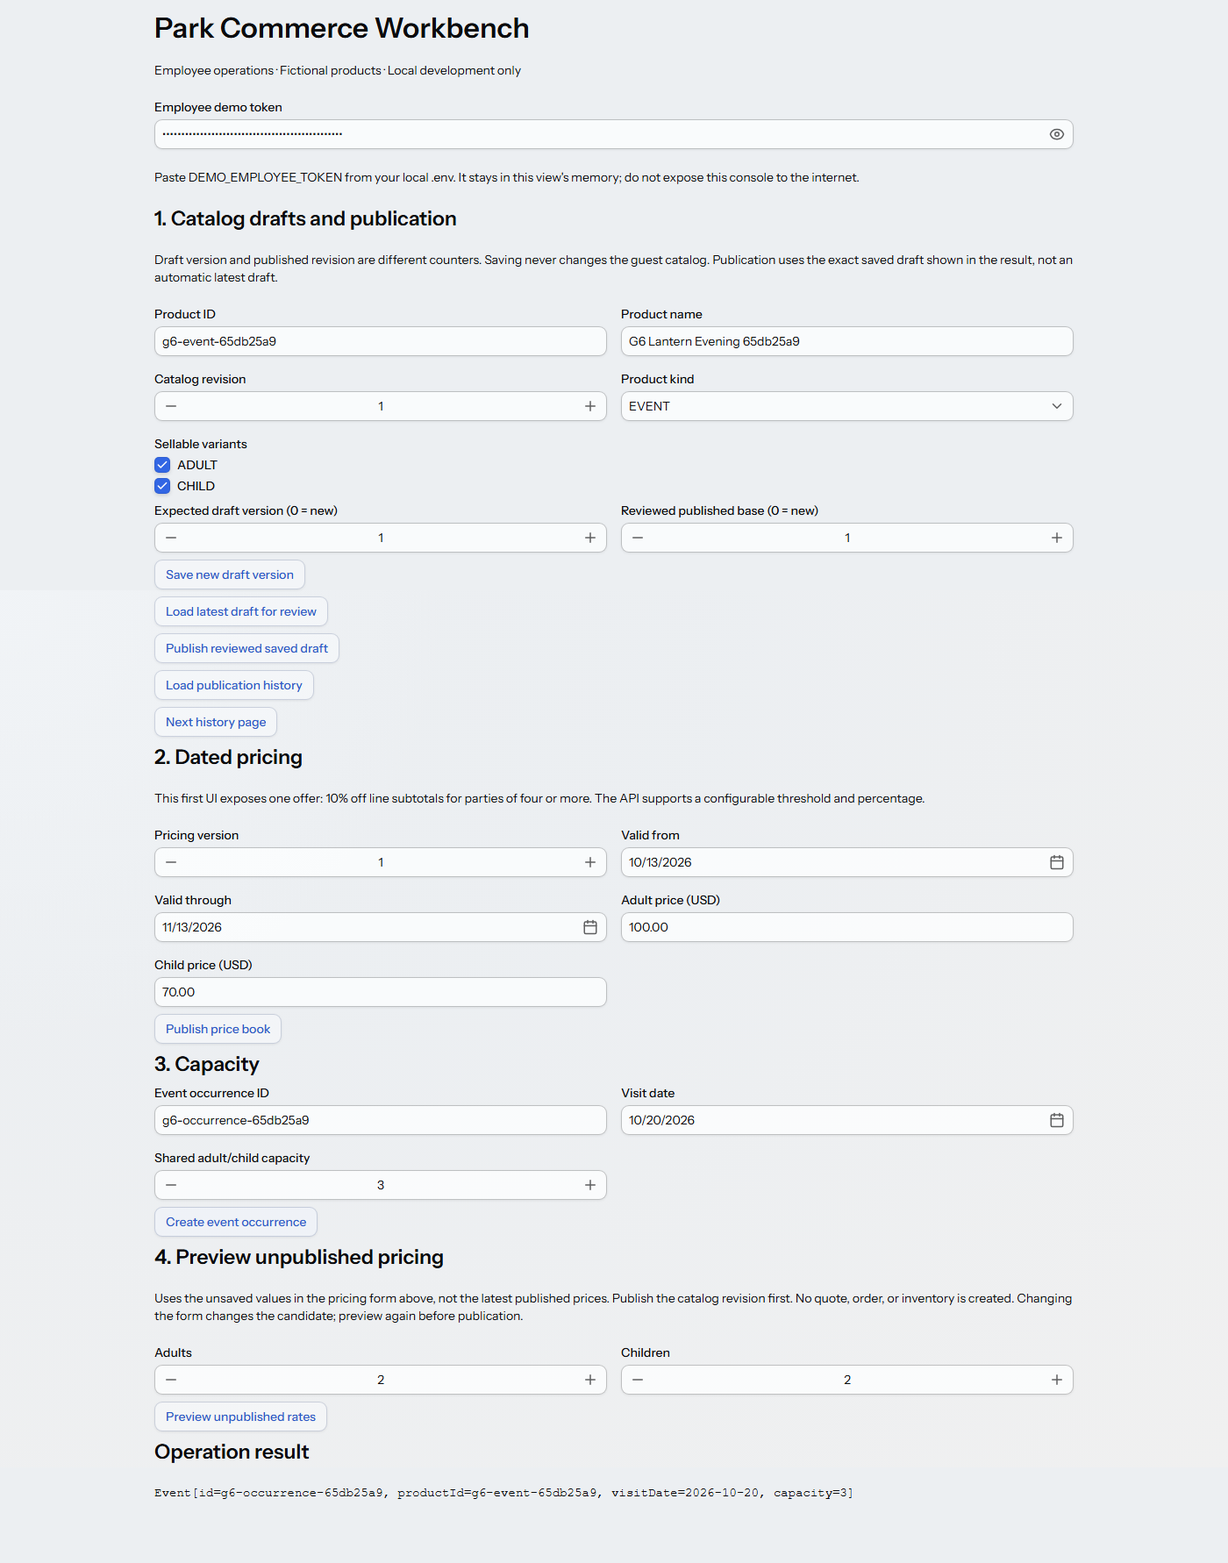
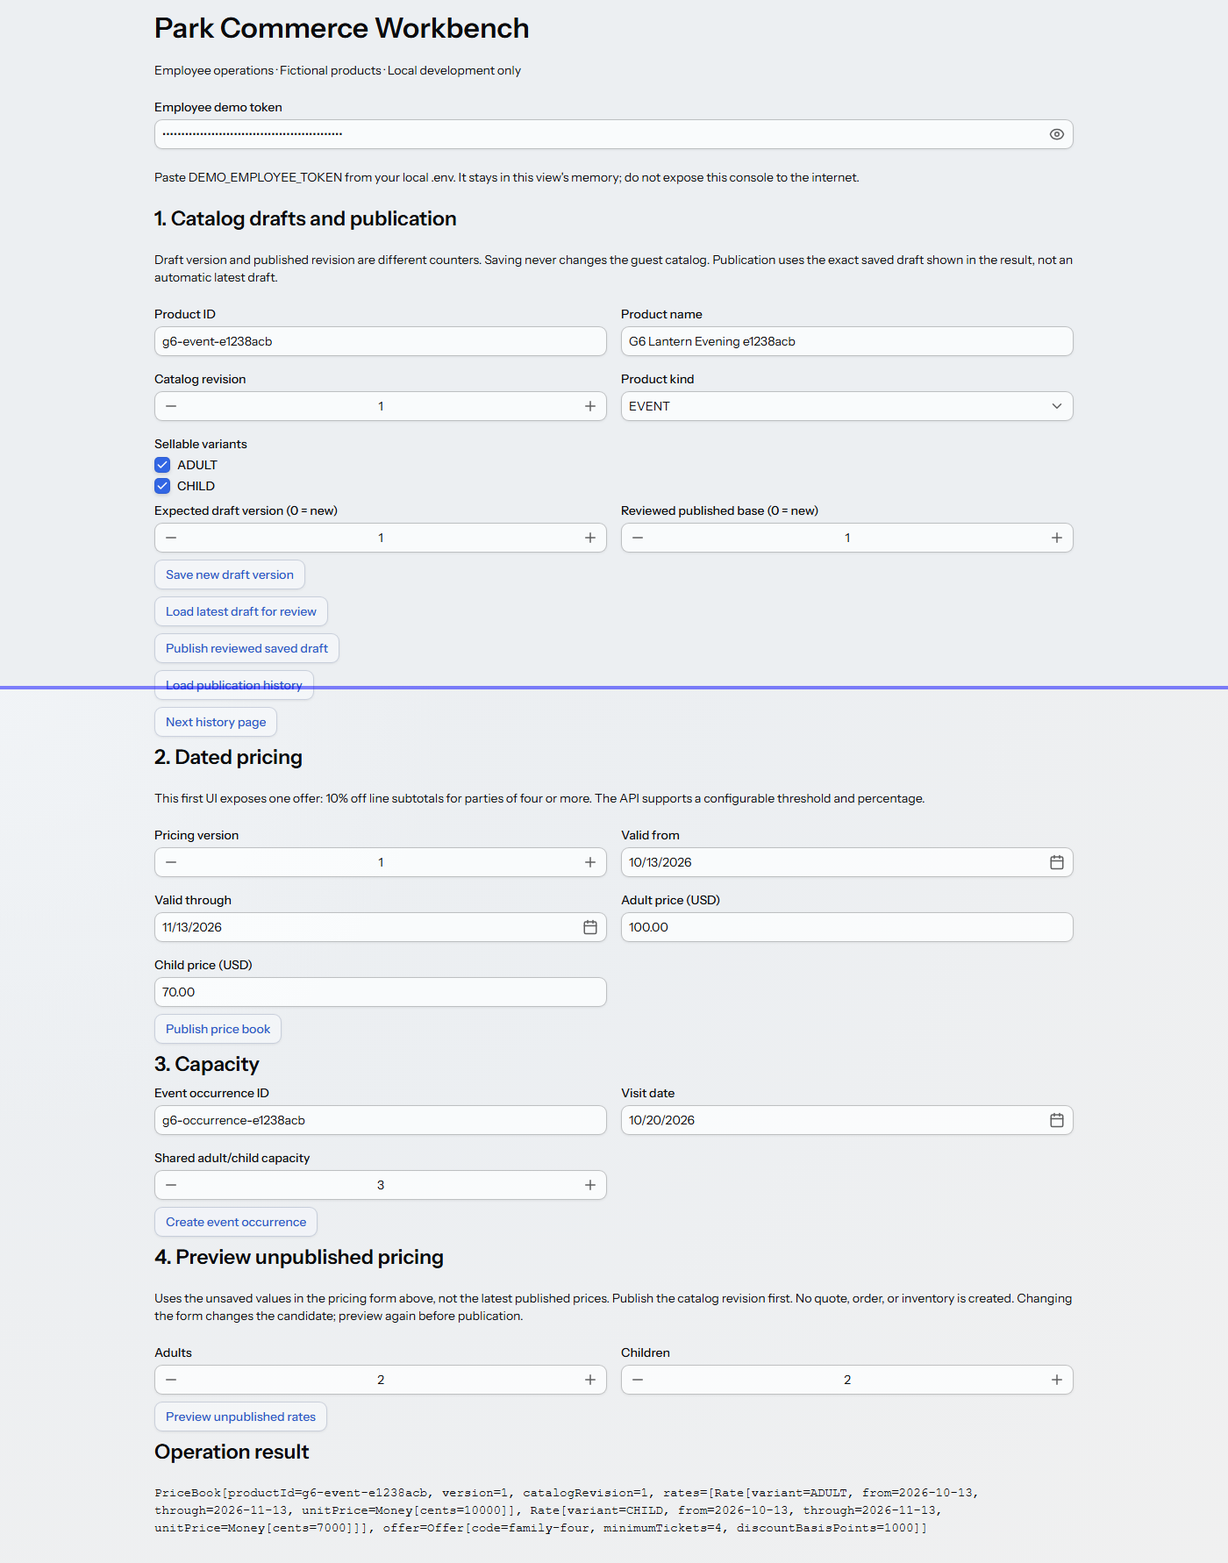
docs: correct G-0006 post-publication browser proof

diff --git a/goals/G-0006/evidence/f5e1cc5/browser-walkthrough.md b/goals/G-0006/evidence/f5e1cc5/browser-walkthrough.md
@@ -2,9 +2,9 @@
 
 Source S `f5e1cc5e576c45a785199374031e5853a4dc7606`, clean detached verification worktree `.tmp/g0006-live`. The Vaadin console used `http://127.0.0.1:8480/`; Angular used `http://127.0.0.1:4300/`; APIs used loopback ports 8381–8383. Local Playwright 1.64.0 drove installed headless Chromium. This was an actual browser session against the actual Compose services, not a DOM mock or screenshot of source. The exact executed script is [checks/browser-flow.cjs](checks/browser-flow.cjs); [raw steps](checks/browser-flow.txt) retain the command, source, timestamps, assertions and synthetic IDs. The ignored `.env` supplied randomly generated local demo credentials in process memory; its values are absent from the reports.
 
-1. Open the employee console, enter the local employee token, set product ID `g6-event-65db25a9` and fictional name, save draft version 1, then click **Publish reviewed saved draft**. A public catalog API read returned revision 1. Through the same UI, publish price book version 1 at $100 adult / $70 child, and create event `g6-occurrence-65db25a9` for `2026-10-20` with capacity 3. [Employee browser screenshot](checks/screenshots/admin.png).
-2. Open the Angular guest client in a second page, enter the guest token and authenticate against the booking service. Load published products, select that product and date, and click **Get itemized quote**. The GraphQL response returned quote `37fbc3dd-9c11-4903-a176-cfecd4c8c5e0`, pricing version 1, total 10000 cents. The UI displayed $100. [Original quote screenshot](checks/screenshots/quote.png).
-3. Return to the employee browser, change pricing version to 2 and adult rate to $125, then publish through Vaadin. Reread the original quote through the pricing API: version 1 and 10000 cents. A new quote for the other demo guest returned 12500 cents. The original guest UI still displayed $100 before holding inventory.
-4. In Angular, enter matching occurrence ID, click **Hold event capacity**, then **Confirm saved simulated purchase**. The receipt and booking API returned order `38bc4892-f810-42b0-90fd-5ae9413b858e`, one ticket, 10000 cents. Click **Retry same checkout**; a second order read was deeply equal to the first. [Confirmed order screenshot](checks/screenshots/order.png). The booking availability read after retry and restart reported capacity 3, confirmed 1, held 0, available 2; see [restart evidence](restart-and-limitations.md).
+1. Open the employee console, enter the local employee token, set product ID `g6-event-e1238acb` and fictional name, save draft version 1, then click **Publish reviewed saved draft**. A public catalog API read returned revision 1. Through the same UI, publish price book version 1 at $100 adult / $70 child, and create event `g6-occurrence-e1238acb` for `2026-10-20` with capacity 3. [Employee browser screenshot](checks/screenshots/admin.png).
+2. Open the Angular guest client in a second page, enter the guest token and authenticate against the booking service. Load published products, select that product and date, and click **Get itemized quote**. The GraphQL response returned quote `98cf4bd3-8e67-4452-aac3-65f0946a74b0`, pricing version 1, total 10000 cents. The UI displayed $100. [Original quote screenshot](checks/screenshots/quote.png).
+3. Return to the employee browser, change pricing version to 2 and adult rate to $125, then publish through Vaadin. Reread the original quote through the pricing API: version 1 and 10000 cents. A new quote for the other demo guest returned 12500 cents. **After publication**, read the original guest page's visible total element and assert it is `$100.00 USD`; then capture the [post-publication screenshot](checks/screenshots/reprice.png). The screenshot has the same bytes as the earlier quote screenshot because that guest DOM remained unchanged. The ordered assertion and API responses in the [browser script](checks/browser-flow.cjs) and [run output](checks/browser-flow.txt) establish when the observation occurred.
+4. In Angular, enter matching occurrence ID, click **Hold event capacity**, then **Confirm saved simulated purchase**. The receipt and booking API returned order `5a2d529d-3af9-4121-a508-c1a458e30b26`, one ticket, 10000 cents. Click **Retry same checkout**; a second order read was deeply equal to the first. [Confirmed order screenshot](checks/screenshots/order.png). The booking availability read after retry and restart reported capacity 3, confirmed 1, held 0, available 2; see [restart evidence](restart-and-limitations.md).
 
-The screenshots show synthetic IDs and masked password fields. They were inspected before publication. The local browser runner lives in ignored `.tmp/g0006-browser`; its committed script copy documents the procedure but assumes that same scratch layout and an installed Playwright/Chromium. Browser startup, framework packaging and Angular compilation are separately evidenced in [Compose build](checks/compose-build.txt), [Vaadin build](checks/vaadin-build.txt) and [Angular build](checks/angular-build.txt); a successful build alone is not treated as a browser pass.
+The first review found that the earlier script read guest text before the price change, so its claim about the post-publication UI was unsupported. The earlier [script](checks/browser-flow-round1.cjs), [run](checks/browser-flow-round1.txt) and round-one screenshots remain available; the repeated run above added a post-publication assertion without changing source S. The screenshots show synthetic IDs and masked password fields. They were inspected before publication. The local browser runner lives in ignored `.tmp/g0006-browser`; its committed script copy documents the procedure but assumes that same scratch layout and an installed Playwright/Chromium. Browser startup, framework packaging and Angular compilation are separately evidenced in [Compose build](checks/compose-build.txt), [Vaadin build](checks/vaadin-build.txt) and [Angular build](checks/angular-build.txt); a successful build alone is not treated as a browser pass.

diff --git a/goals/G-0006/evidence/f5e1cc5/reviews/round1-adversarial.md b/goals/G-0006/evidence/f5e1cc5/reviews/round1-adversarial.md
@@ -1,0 +1,29 @@
+# G-0006 independent adversarial review, round 1
+
+Native child thread: 01a134e0-deb2-7c00-80fa-a18500302246; parent: 01a134e0-527e-7812-8936-da1cc365ff3c. Local raw rollout SHA-256: 12e4ec55a58e99ed70cc02f19d2e12625d1b435c77f94ad32c1e793369859a14. The role/path were authenticated from child session metadata; the child could not see its own thread ID. Raw rollout stays local because it contains host paths. The following is the child final response with local file links rewritten as repository-relative links and native trailing whitespace normalized for public retention.
+
+## Independent adversarial review — round 1
+
+**Role:** `adversarial-reviewer`
+**Task path:** `/root/g0006_adversarial_round1`
+**Native child thread ID:** Not exposed to this reviewer.
+
+**Fixed identities:** source S `f5e1cc5e576c45a785199374031e5853a4dc7606`; base `f95ca02f1f54b4010c0e9b4c00cba6fa685d689e`; accepted plan P `db494ebe4b5761cab9a1ecd67831dbad059f69b6`; evidence checkpoint E1 `4900d4a2c36189746f95567a71e48359c0b2bb04`. Git ancestry confirms P precedes S and E1 follows S. The retained accepted-plan copy matches the recorded SHA-256. The working tree was clean during this read-only review.
+
+**Inspected scope:** Accepted AC01–AC04, governing baseline and review guide; the complete base-to-S diff; E1 reports, raw check logs, browser script and screenshots; Vaadin and Angular request paths; booking retry dispatch; Compose/build results and restart record. S changes setup guidance and the storefront footer. I found no new duplicate pricing, booking, or authorization implementation, misplaced business rule, dependency cycle, or public contract change in that diff. The established services remain the canonical owners of those rules.
+
+### Finding 1 — browser evidence overstates its post-publication UI check
+
+In [`browser-flow.cjs`](../../../../../goals/G-0006/evidence/f5e1cc5/checks/browser-flow.cjs), `guestText` is captured **before** Vaadin publishes price version 2. The later `uiKeepsOldPrice` value tests that cached text. Consequently, the statement in [`browser-walkthrough.md`](../../../../../goals/G-0006/evidence/f5e1cc5/browser-walkthrough.md) that the guest UI “still displayed $100” after publication is not established by that assertion. The quote screenshot was also taken before publication.
+
+**Impact and disposition:** Correct that statement or obtain a post-publication UI observation. This is an evidence-integrity finding, not presently a demonstrated AC03 failure: the script separately reads the old quote after publication, checks 10000 cents against a new 12500-cent quote, and checks the resulting order total.
+
+### Finding 2 — current checkpoint is incomplete for readiness
+
+E1 contains the required A01–A03 reports and raw checks, but no filled `manifest.json`, independent review reports, intended-use validation, readiness decision, or recovery handoff. The accepted [goal record](../../../../../goals/G-0006/README.md) and [artifact contract](../../../../../docs/roadmap/ARTIFACT-CONTRACT.md) require those before a ready claim.
+
+**Impact and disposition:** Readiness remains blocked pending actual completion and review of those records. E1 accurately calls itself a checkpoint; its absence of later records is not evidence that S failed the executed product checks.
+
+**Evidence limits:** The Vaadin build log says existing `node_modules` caused `npm ci` to be skipped, so its successful `mvn clean install` does not independently demonstrate a fresh npm dependency install. The browser script and logs are retained copies of a local scratch run; their execution and clean-worktree claim were not independently reproduced here. I performed no mutable product checks, credential inspection, remote retrieval, intended-use validation, release approval, or deployment assessment. The local remote-tracking ref contains E1, but that observation alone does not prove a fresh off-device retrieval or whole-goal recovery.
+
+The retained logs report six healthy Compose services, 43 passing HTTP assertions, a browser order at 10000 cents after price version 2, and order retrieval after a volume-preserving restart. Those are reported observations for S, with the limits above; they do not confer validation or release approval.

diff --git a/goals/G-0006/evidence/f5e1cc5/reviews/round1-contract.md b/goals/G-0006/evidence/f5e1cc5/reviews/round1-contract.md
@@ -1,0 +1,21 @@
+# G-0006 independent contract review, round 1
+
+Native child thread: 01a134e0-ad3e-73a0-8004-086e53139028; parent: 01a134e0-527e-7812-8936-da1cc365ff3c. Local raw rollout SHA-256: b38a33028c11b881d518f0777cb6664e251f2a3d8c31002249df42e97618b25b. The role/path were authenticated from child session metadata; the child could not see its own thread ID. Raw rollout stays local because it contains host paths. The following is the child final response with native trailing whitespace normalized.
+
+## Independent first-round contract review
+
+**Role/task path:** `contract-reviewer`, `/root/g0006_contract_round1`. Native child thread ID was not visible to me.
+
+**Fixed identities:** Source S `f5e1cc5e576c45a785199374031e5853a4dc7606`; base `f95ca02f1f54b4010c0e9b4c00cba6fa685d689e`; accepted plan P `db494ebe4b5761cab9a1ecd67831dbad059f69b6`; evidence checkpoint E1 `4900d4a2c36189746f95567a71e48359c0b2bb04`. E1 adds reports and raw evidence without changing S product files.
+
+**Inspected scope:** The four accepted criteria in `goals/G-0006/README.md`; governing baseline and the contract section of `.agents/skills/work-goal/references/review-guide.md`; S versus base diff; retained Compose, HTTP, browser, build, restart logs and screenshots; browser runner assertions; relevant `scripts/demo-http.mjs` assertions and artifact contract. I did not inspect ignored `.env` credentials or run mutable checks.
+
+**Observed coverage:** The retained logs report six healthy Compose services, 43 passed live HTTP assertions with exit 0, a Vaadin publication and Angular quote/order browser run with exit 0, and a volume-preserving restart followed by retrieval of the same order. The HTTP script asserts price preservation, ownership, retry identity, and competing holds. The browser and restart records connect event `g6-occurrence-65db25a9`, quote `37fbc3dd-9c11-4903-a176-cfecd4c8c5e0`, and order `38bc4892-f810-42b0-90fd-5ae9413b858e`; post-retry/restart availability is capacity 3, confirmed 1, available 2. No demonstrated product-contract failure or DRY/architectural smell appeared in the small S delta.
+
+### Findings and blockers
+
+1. **Misleading browser assertion, evidence defect:** `checks/browser-flow.cjs:46,54` captures `guestText` *before* Vaadin publishes price version 2, then reports `uiKeepsOldPrice` from that earlier text. `browser-walkthrough.md:7` says the Angular UI still displayed $100 *after* publication and before holding; this specific assertion does not establish that sequence. The server reread and final order independently support AC03’s protected total, so this is a narrower browser-evidence defect, not a demonstrated pricing failure. **Disposition:** Correct the claim or provide a post-publication UI observation with corresponding evidence.
+
+2. **Readiness evidence incomplete at E1:** `goals/G-0006/README.md:76` and `docs/roadmap/ARTIFACT-CONTRACT.md` require a filled manifest, separate independent review reports, intended-use validation, decision, and handoff. These are absent from `goals/G-0006/evidence/f5e1cc5/` at E1. This is an **outstanding gate**, expected during first-round review, but the candidate cannot be called ready on E1 alone. **Disposition:** Complete actual reviews and obtain Adam’s intended-use validation or explicit delegation, then record the manifest, decision, and handoff without inventing approval.
+
+**Uncertainty and unverified scope:** I relied on the owner’s retained execution logs; this read-only assignment did not independently rerun the local services or browser. The committed browser runner is described as a copy of a local scratch script, but E1 does not independently authenticate the scratch script’s bytes. I did not assess admission checkout, combined cart, production auth, deployment, remote recovery, or release approval.

diff --git a/goals/G-0006/evidence/f5e1cc5/restart-and-limitations.md b/goals/G-0006/evidence/f5e1cc5/restart-and-limitations.md
@@ -1,8 +1,8 @@
 # G-0006-A03 — volume-preserving recovery and limits
 
-At source S `f5e1cc5e576c45a785199374031e5853a4dc7606`, run `docker compose down` (without `-v`) in `.tmp/g0006-live`, verify all three named volumes still exist, then run `docker compose up -d --wait`. Both commands exited 0. Each service was healthy after restart. The Mongo, pricing MySQL and booking MySQL volumes retained their creation timestamp `2026-10-13T06:52:02Z` before shutdown, after shutdown and after startup. All six container IDs changed. [Raw command, volume and container record](checks/restart.txt).
+At source S `f5e1cc5e576c45a785199374031e5853a4dc7606`, run `docker compose down` (without `-v`) in `.tmp/g0006-live`, verify all three named volumes still exist, then run `docker compose up -d --wait`. Both commands exited 0. Each service was healthy after restart. The Mongo, pricing MySQL and booking MySQL volumes retained their creation timestamp `2026-10-13T06:52:02Z` before shutdown, after shutdown and after startup. All six container IDs changed. [Raw command, volume and container record](checks/restart-round2.txt). The earlier [restart run](checks/restart.txt) remains retained with its distinct browser order.
 
-After restart, an owner-authenticated GET returned browser order `38bc4892-f810-42b0-90fd-5ae9413b858e`, one ticket, 10000 cents, HTTP 200. Event `g6-occurrence-65db25a9` still reported capacity 3, confirmed 1, held 0, available 2. Retrieval and equality assertions exited 0. No volume deletion or database reset was used.
+After restart, an owner-authenticated GET returned the corrected browser run's order `5a2d529d-3af9-4121-a508-c1a458e30b26`, one ticket, 10000 cents, HTTP 200. Event `g6-occurrence-e1238acb` still reported capacity 3, confirmed 1, held 0, available 2. Retrieval and equality assertions exited 0. No volume deletion or database reset was used.
 
 No framework or data-binding code repair was needed for the accepted event path. The Vaadin production build and Angular build passed at S, and the browser forms bound to the actual APIs. The first attempted Vaadin port, 8180, belonged to an unrelated Docker mapping and was not used as G-0006 evidence. The G-0006 console ran on 8480; [START-HERE](../../../../docs/START-HERE.md) now documents isolated ports and client bindings. A later `mvn clean install` attempt on Windows failed because that running console locked its jar; [failed output](checks/vaadin-build-red.txt) is retained. After verifying and stopping only the owned console process, the same [clean build](checks/vaadin-build.txt) passed, including 280 core tests. The storefront's stale “verification pending” footer was corrected in S.
 

diff --git a/goals/G-0006/work/implementation.md b/goals/G-0006/work/implementation.md
@@ -6,4 +6,6 @@ An isolated verification worktree `.tmp/g0006-live` and Compose project `pcw-g00
 
 The final S Vaadin clean build initially failed because Windows locked the running console jar. The failed log is retained. After checking the process/port belonged to this worktree, the writer stopped only that owned process; the same S clean build then passed with 280 core tests. The console was relaunched from the rebuilt S jar on 8480 and returned HTTP 200. Its current PID is a local observation, not a durable identifier; verify its command line and port before any later stop. The Angular process remains on 4300. No vendor service, paid browser workflow, payment provider or deployment was used.
 
-Next: finish privacy/digest manifest, publish the evidence checkpoint, obtain independent native contract and adversarial reviews of fixed S and raw evidence, resolve findings within the three-round limit, ask Adam for intended-use validation or explicit delegation, then make a truthful readiness/recovery decision. G-0006 is not ready merely because the technical checks passed. Do not merge, release or remove local volumes as a side effect of this checkpoint.
+The first independent native contract and adversarial reviewers both found an evidence-ordering error: the original script's UI text came from before publication of price version 2. A second local browser run now asserts the visible $100 total **after** publication and takes an additional screenshot. Its own order survived a second volume-preserving restart. Source S did not change. The first outputs and independent findings remain retained under the evidence directory. The other first-round finding was expected incompleteness of final readiness artifacts.
+
+Next: publish the corrected evidence checkpoint, obtain second-round independent native review of fixed S and corrected raw evidence, complete actual intended-use validation or record Adam's explicit delegation, then assemble the digest manifest and make a truthful readiness/recovery decision. G-0006 is not ready merely because the technical checks passed. Do not merge, release or remove local volumes as a side effect of this checkpoint.

diff --git a/goals/G-0006/evidence/f5e1cc5/reviews/round1-disposition.md b/goals/G-0006/evidence/f5e1cc5/reviews/round1-disposition.md
@@ -1,0 +1,9 @@
+# G-0006 round-one disposition
+
+Fixed product source S remains `f5e1cc5e576c45a785199374031e5853a4dc7606`. Both independent first reviewers identified that the original browser script captured guest text before Vaadin published price version 2, while the report claimed the Angular UI still displayed $100 after publication. The old [script](../checks/browser-flow-round1.cjs), [output](../checks/browser-flow-round1.txt) and `round1-*.png` screenshots remain retained. No product pricing or booking defect was demonstrated.
+
+The writer updated only the local browser procedure and evidence. The new [script](../checks/browser-flow.cjs) publishes version 2, verifies a new quote at 12500 cents and old server quote at 10000 cents, **then reads the guest UI total** and asserts `$100.00 USD` before holding inventory. The [new run](../checks/browser-flow.txt) exited 0 with quote `98cf4bd3-8e67-4452-aac3-65f0946a74b0` and order `5a2d529d-3af9-4121-a508-c1a458e30b26`. A separate [post-publication screenshot](../checks/screenshots/reprice.png) was taken after that assertion. Its bytes match the earlier screenshot because the guest UI did not change. [Restart run](../checks/restart-round2.txt) retained the new order and one confirmed capacity unit. The [walkthrough](../browser-walkthrough.md) now cites the corrected sequence and identifiers.
+
[1 lines of base64/hex data omitted]
+
+The missing manifest, intended-use validation, final decision and recovery handoff remain open at this checkpoint. This disposition does not count as a second independent review or a ready claim. The corrected evidence and open gates must be reviewed against S in a later round.

diff --git a/goals/G-0006/evidence/f5e1cc5/reviews/round1-provenance.md b/goals/G-0006/evidence/f5e1cc5/reviews/round1-provenance.md
@@ -1,0 +1,10 @@
+# G-0006 native first-review provenance
+
+Read-only Codex CLI parent `01a134e0-527e-7812-8936-da1cc365ff3c` assigned two distinct configured native roles against fixed source S `f5e1cc5e576c45a785199374031e5853a4dc7606` and published evidence E1 `4900d4a2c36189746f95567a71e48359c0b2bb04`. The child session metadata authenticates role, task path and parent. The two final responses were independently completed before reconciliation. Raw rollouts stay local because they contain host paths; public reports preserve each final response with only local path links normalized where noted.
+
+| Role | Native child thread | Task path | Raw rollout SHA-256 | Report |
+| --- | --- | --- | --- | --- |
[2 lines of base64/hex data omitted]
+
+Neither reviewer changed S, ran mutable tests, inspected demo credentials, validated intended use, or granted release approval. Both found the same post-publication UI evidence gap and the expected missing final readiness records at E1. Those findings are retained independently; [disposition](round1-disposition.md) records subsequent work.
